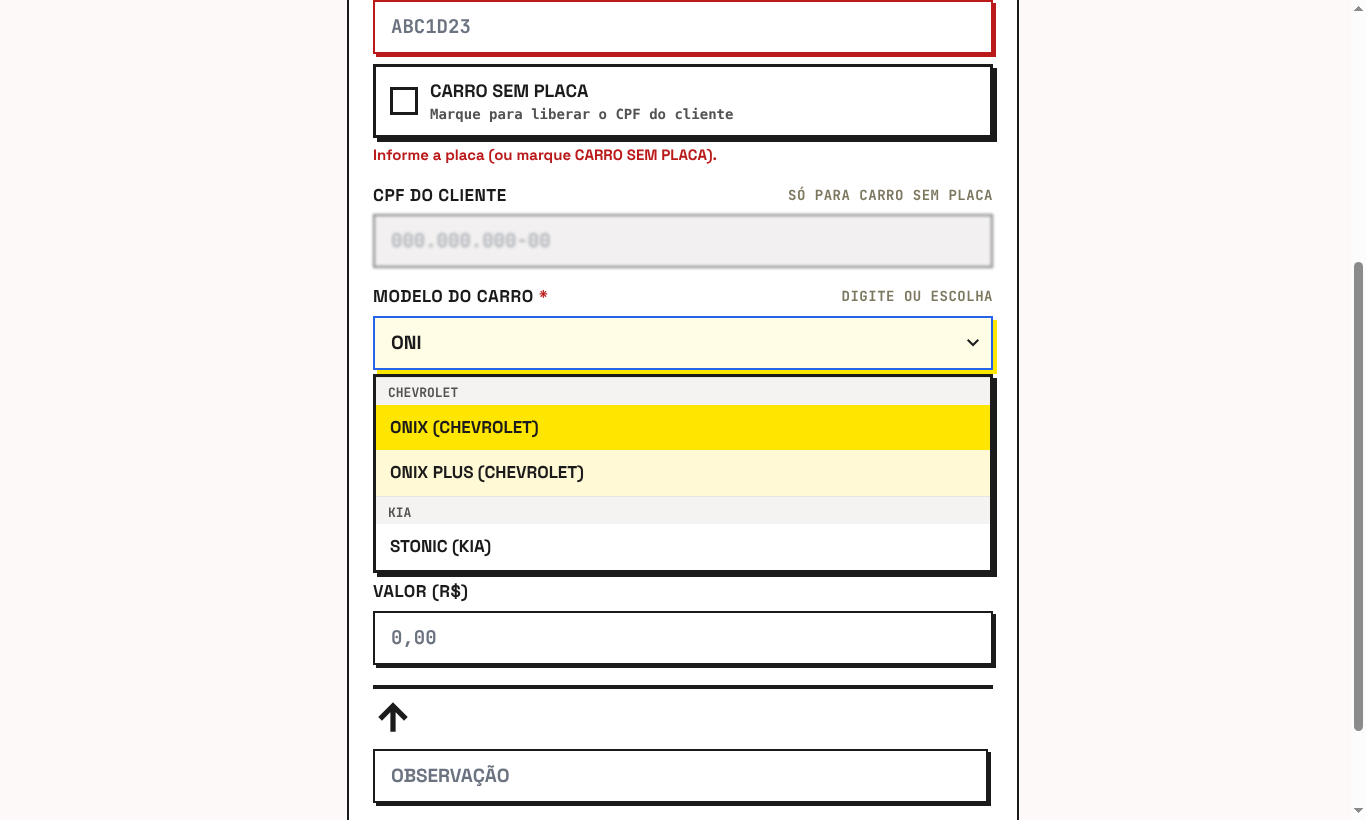
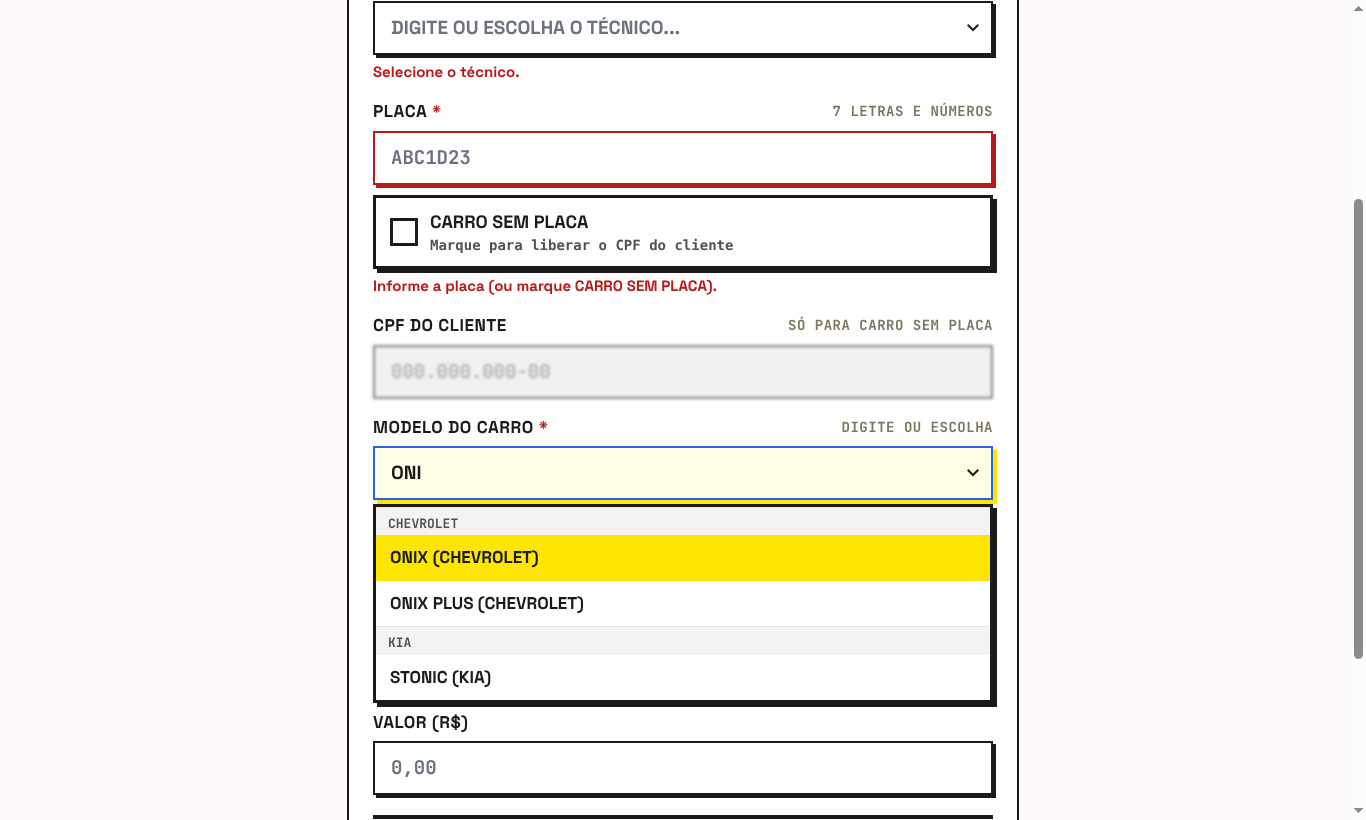
fix: tecnico que realizou o servico comeca vazio e lista todos os tecnicos para qualquer conta
O cadastro preenchia o tecnico com o nome de quem estava logado e a
caixa filtrava a lista por esse texto. Conta e tecnico sao pessoas
diferentes.

Claude-Session: https://claude.ai/code/session_01NUq2fGscdhbEodN3JA1uYc

Changed region(s): [[0.246, 0.0, 0.7379, 1.0], [0.9839, 0.7927, 1.0, 0.8841], [0.9839, 0.2439, 1.0, 0.3354]]

diff --git a/desktop/smoke.js b/desktop/smoke.js
@@ -170,8 +170,8 @@ async function executar() {
   teste("Técnico: Enter escolhe o técnico", await js("document.getElementById('tecnico').value === 'RENATO' && document.getElementById('tecnico_busca').value === 'RENATO'"));
   await js("(() => { const c = document.getElementById('tecnico_busca'); c.focus(); c.value = 'xyz'; c.dispatchEvent(new Event('input')); c.blur(); })()");
   teste("Técnico: texto que não é da lista não escolhe nada (campo apagado)", await js("document.getElementById('tecnico').value === '' && document.getElementById('tecnico_busca').value === ''"));
-  // volta ao tecnico do perfil (como a tela abriu) para os testes seguintes
-  await js("(() => { const s = document.getElementById('tecnico'); s.value = 'FELIPE'; s.dispatchEvent(new Event('change')); })()");
+  // volta ao tecnico vazio (como a tela abre) para os testes seguintes
+  await js("(() => { const s = document.getElementById('tecnico'); s.value = ''; s.dispatchEvent(new Event('change')); })()");
   await js(`(() => { const c = document.querySelectorAll('#produtos .produto-caixa'); const s = c[c.length - 1]; s.value = [...s.options].find(o => o.textContent === 'TROCA CARCAÇA').value; s.dispatchEvent(new Event('change')); })()`);
   await js("document.querySelector('#produtos .produto-mais').click()");
   teste("Botão + acrescenta uma linha de produto", (await js("document.querySelectorAll('#produtos > li').length")) === 2);
@@ -209,7 +209,7 @@ async function executar() {
   await js("document.querySelector('[data-dialogo-acao=confirmar]').click()");
   teste("Ao fechar o pop-up, os erros ficam nos campos",
     await esperarPredicado("!document.querySelector('[data-dialogo]') && !document.querySelector('[data-erro-campo=placa]').classList.contains('hidden')", 3000));
-  teste("Técnico já vem com o perfil", (await js("document.getElementById('tecnico').value")) === "FELIPE" && (await js("document.getElementById('tecnico_busca').value")) === "FELIPE");
+  teste("Técnico começa VAZIO (técnico não é quem está logado)", (await js("document.getElementById('tecnico').value")) === "" && (await js("document.getElementById('tecnico_busca').value")) === "");
   teste("CPF travado até marcar carro sem placa", await js("document.getElementById('cpf').disabled"));
   await js("document.getElementById('sem_placa').click()");
   teste("Carro sem placa libera o CPF", await js("!document.getElementById('cpf').disabled && document.getElementById('placa').disabled"));
@@ -461,6 +461,23 @@ async function executar() {
   await js("document.getElementById('pin-campo').value = '5678'");
   await enter("#pin-campo");
   teste("Enter no PIN = ENTRAR: Renato entra com o PIN dele", await telaPronta("menu") && await esperarPredicado("document.body.dataset.perfil === 'RENATO'"));
+  // conta comum (Renato): ve TODOS os tecnicos no cadastro e usa a Pesquisar Garantia
+  await ir("cadastrar-garantia");
+  await esperarPredicado("document.querySelectorAll('#tecnico option').length > 3", 8000);
+  const totalTecnicos = await js("[...document.querySelectorAll('#tecnico option')].filter(o => o.value).length");
+  teste("Conta comum: técnico começa vazio", await js("document.getElementById('tecnico').value === '' && document.getElementById('tecnico_busca').value === ''"));
+  await js("(() => { const c = document.getElementById('tecnico_busca'); c.focus(); c.dispatchEvent(new Event('focus')); })()");
+  teste("Conta comum: a lista de técnicos mostra TODOS os técnicos", await esperarPredicado(`document.querySelectorAll('#tecnico_busca').length && [...document.getElementById('tecnico_busca').closest('.caixa-busca').querySelectorAll('.caixa-busca__opcao')].length === ${totalTecnicos}`, 3000),
+    await js("[...document.getElementById('tecnico_busca').closest('.caixa-busca').querySelectorAll('.caixa-busca__opcao')].map(o => o.textContent).join(',')"));
+  await js("(() => { const s = document.getElementById('tecnico'); s.value = 'FELIPE'; s.dispatchEvent(new Event('change')); document.getElementById('tecnico_busca').blur(); })()");
+  await esperar(200);
+  await js("(() => { const c = document.getElementById('tecnico_busca'); c.focus(); c.dispatchEvent(new Event('focus')); })()");
+  teste("Com um técnico escolhido, abrir a lista mostra TODOS de novo (não fica travado)", await esperarPredicado(`[...document.getElementById('tecnico_busca').closest('.caixa-busca').querySelectorAll('.caixa-busca__opcao')].length === ${totalTecnicos}`, 3000));
+  await js("document.getElementById('tecnico_busca').blur()");
+  await ir("pesquisar-garantias");
+  await esperarPredicado("document.body.dataset.garantiasCarregadas !== undefined", 8000);
+  await js("document.querySelector('[data-filter=TODOS]').click()");
+  teste("Conta comum: PESQUISAR GARANTIA abre e mostra as garantias", await esperarPredicado("document.querySelectorAll('#tableBody tr.linha-garantia').length > 0", 5000));
   await ir("contas");
   await esperar(1200);
   teste("Usuário comum não vê a administração de contas", await js("document.getElementById('area-admin').classList.contains('hidden')") && (await texto("#minha-conta")).includes("RENATO"));

diff --git a/frontend/ts/telas/cadastrar-garantia.ts b/frontend/ts/telas/cadastrar-garantia.ts
@@ -300,7 +300,7 @@ function limpar(): void {
   sujo = false;
   abrirObservacao(false);
   trocarModeloOutro(false);
-  tecnicoDoPerfil();
+  caixaTecnico?.sincronizar();
   atualizarSemPlaca();
   reiniciarProdutos();
   mostrarErros({});
@@ -397,13 +397,9 @@ function opcao(valor: string, rotulo: string): HTMLOptionElement {
   return o;
 }
 
-/** O tecnico ja vem com o perfil em uso (tela "Quem esta usando?"); pode ser trocado. */
-function tecnicoDoPerfil(): void {
-  const perfil = perfilAtual();
-  const sel = el<HTMLSelectElement>("tecnico");
-  if (perfil && [...sel.options].some((o) => o.value === perfil.nome)) sel.value = perfil.nome;
-  caixaTecnico?.sincronizar();
-}
+// TECNICO QUE REALIZOU O SERVICO e quem fez o servico, NAO quem esta logado (contas e
+// tecnicos sao pessoas diferentes): o campo comeca vazio, com TODOS os tecnicos na lista,
+// para qualquer conta. Quem cadastrou fica em "cadastrada por" (sessao), separado.
 
 async function carregarListas(): Promise<void> {
   try {
@@ -415,7 +411,6 @@ async function carregarListas(): Promise<void> {
     const selTecnico = el<HTMLSelectElement>("tecnico");
     for (const t of tecnicos.filter((t) => t.ativo)) selTecnico.appendChild(opcao(t.nome, t.nome));
     caixaTecnico?.atualizarItens();
-    tecnicoDoPerfil();
     // modelos agrupados por marca (catalogo de CONTROLE > VEICULOS)
     const selModelo = el<HTMLSelectElement>("modelo");
     const porMarca = new Map<string, HTMLOptGroupElement>();

diff --git a/frontend/ts/caixa-busca.ts b/frontend/ts/caixa-busca.ts
@@ -71,7 +71,9 @@ export function ligarCaixaBusca(
   }
 
   function abrir(todos = false): void {
-    visiveis = todos ? itens : filtrarItens(itens, campo.value);
+    // texto igual a um item ja escolhido: mostra TODOS (para poder trocar sem apagar antes)
+    const escolhido = itens.some((i) => normalizar(i.rotulo) === normalizar(campo.value));
+    visiveis = todos || escolhido ? itens : filtrarItens(itens, campo.value);
     lista.replaceChildren();
     let grupoAnterior: string | undefined;
     visiveis.forEach((item, i) => {

diff --git a/docs/decisoes.md b/docs/decisoes.md
@@ -187,3 +187,7 @@ Registro das decisões de negócio e de arquitetura do Sistema de Garantias. Mai
 
 ## 2026-11-19 — Modo quiosque com o cupom DO RM (autorizado pelo usuário)
 - "Pode fazer esse modo quiosque, mas tem que usar o cupom dos caras." Na janela escondida do RM: ÚLTIMAS VENDAS → CUPOM da venda; o RM busca `/cupom-dados`, monta o cupom dele e chama `window.print()`; essa chamada vira um aviso (o cupom do RM fica na página) e a página do RM vai para a **Daruma DR700** com `webContents.print({ silent: true, deviceName })` (margens nenhuma, escala 100). Nenhuma janela aparece; nada de teclado simulado. Teste: o PDF de teste tem o texto do cupom do RM falso.
+
+## 2026-11-19 — Técnico que realizou o serviço ≠ conta logada
+- Bug: o cadastro preenchia o TÉCNICO com o nome de quem entrou e a caixa filtrava a lista por esse texto (só aparecia ele). Contas (quem usa o sistema) e técnicos (quem fez o serviço) são pessoas diferentes. Agora o técnico começa VAZIO para qualquer conta e a lista mostra TODOS os técnicos ativos; caixa com um item já escolhido mostra a lista inteira ao abrir (`caixa-busca.ts`, vale para modelo e produto). "Cadastrada por" continua vindo da sessão.
+- Pesquisar Garantia: nenhuma trava por conta (conferido no código e no smoke com conta comum).
